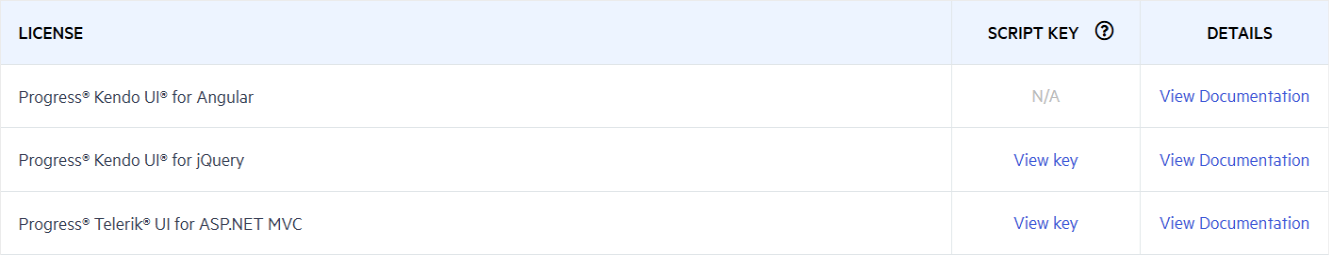
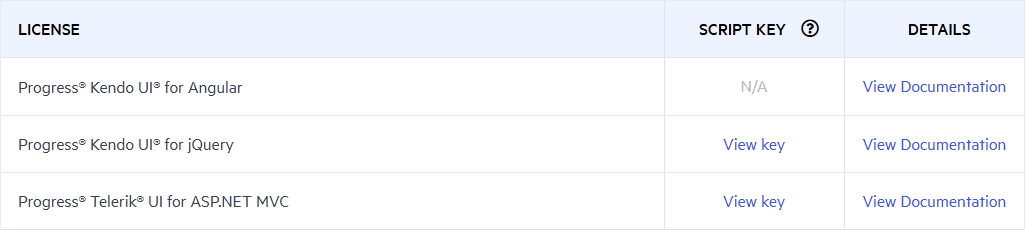
Fixed alignment + updated product key image

diff --git a/distribution-and-licensing/licesne-key.md b/distribution-and-licensing/licesne-key.md
@@ -62,8 +62,6 @@ This article describes how to set up and activate your [license key](https://www
 
 When working with CI/CD platforms, always add the Telerik.Licensing NuGet package as a project dependency. This package activates the product components at build time by using the provided license key.
 
-<!-- If you cannot use NuGet packages in your project, see the workaround in the [Adding Your License Key to CI Platforms as a Code Snippet](LINK TO ARTICLE) KB article. -->
-
 The license activation process in a CI/CD environment involves the following steps:
 
 1. [Download](https://www.telerik.com/account/your-licenses/license-keys) a license key from your Telerik account.
@@ -183,7 +181,7 @@ Using the product in a project with an expired or missing license, the Telerik.L
 In addition, the following conditions will be logged:
 
 |**Condition**|**Solution**|
-| :- | :- |
+|----|----|
 |Your subscription license has expired.|Renew your subscription and [download a new license key](#downloading-the-license-key).|
 |Your perpetual license is invalid.|You are using a product version outside the validity period of your perpetual license. To resolve this, do either of the following: <br> - Purchase a license for the current product version, then download and install a new key. <br> - Downgrade to a version covered by your perpetual license, as specified in the message. |
 |Your trial license has expired.|Purchase a commercial license to continue using the product.|
